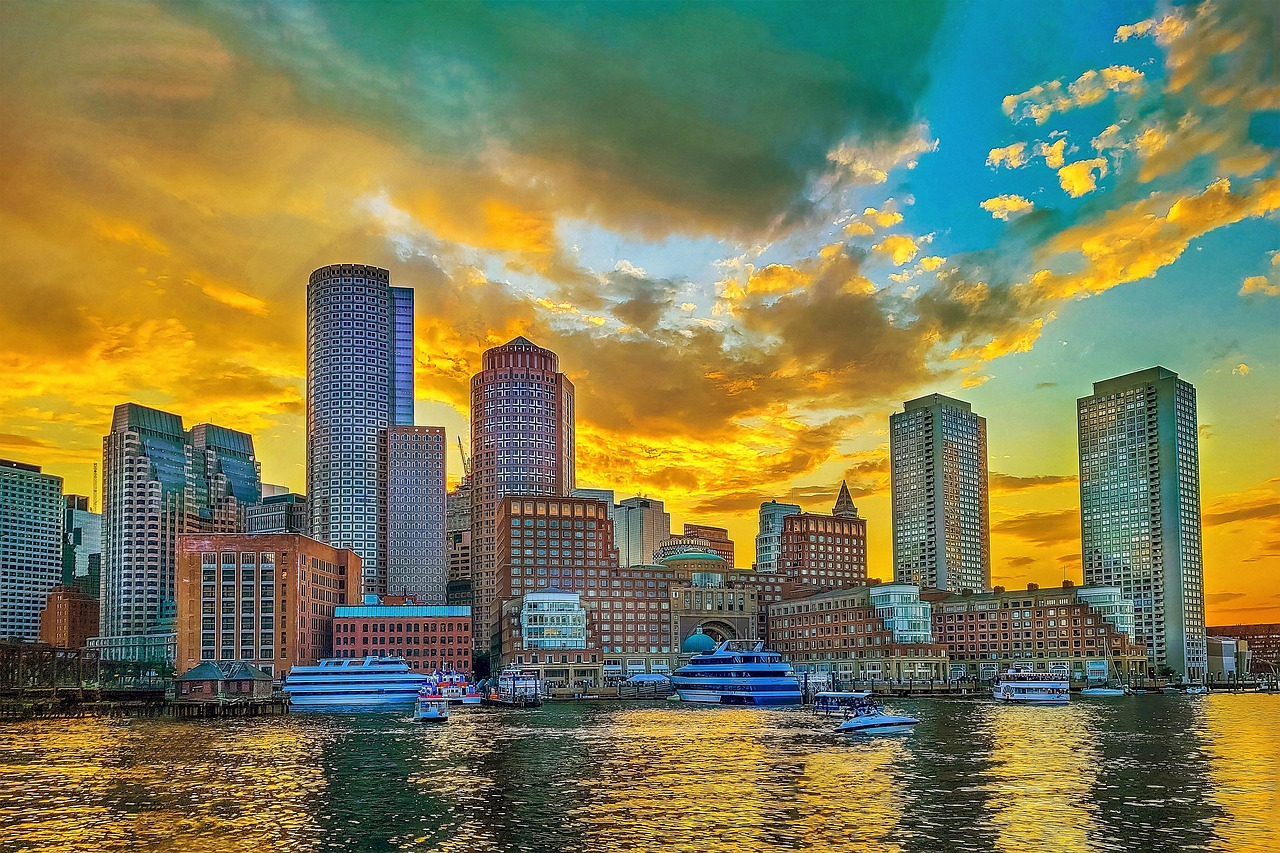
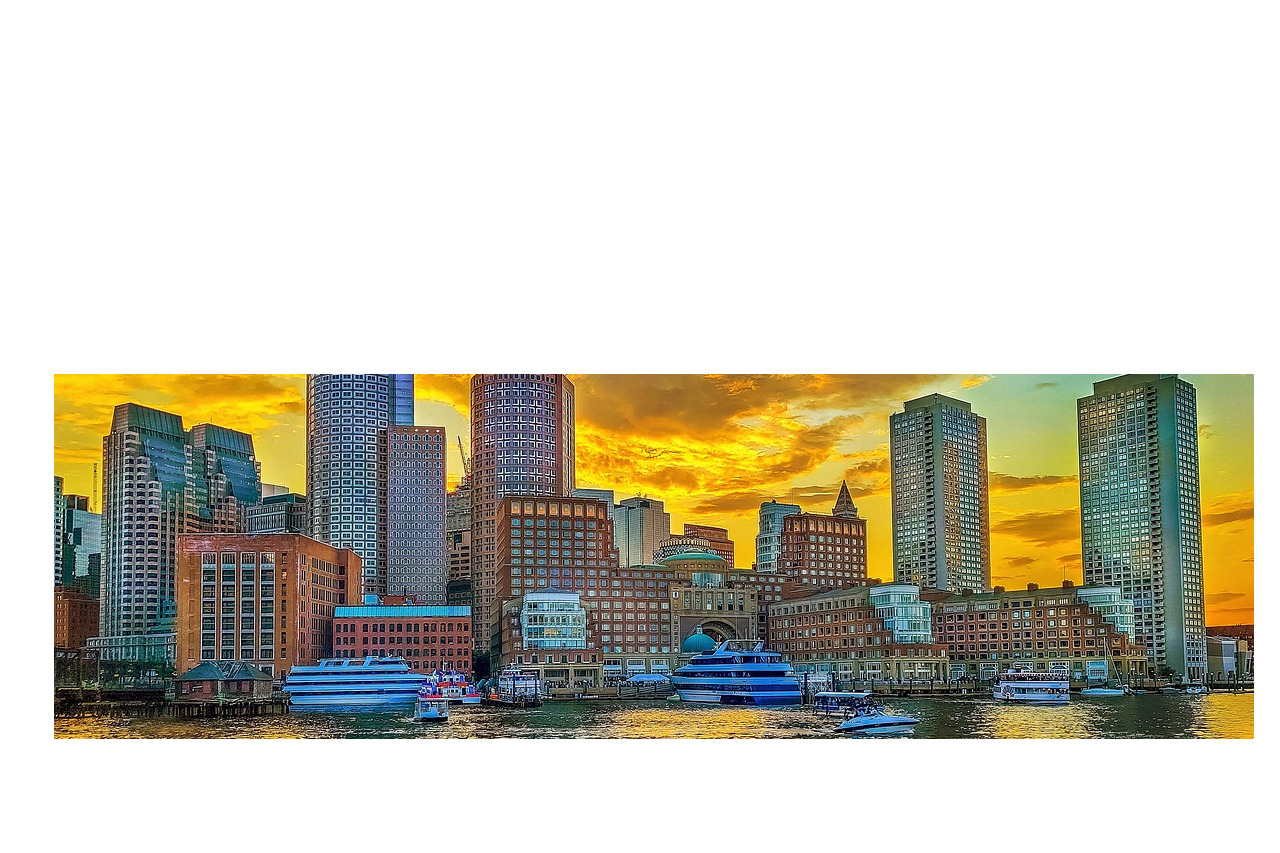
schreibfehler verbessert und Bild zugeschnitten

diff --git a/index.html b/index.html
@@ -64,7 +64,7 @@
         }).addTo(map);
         <!--Koordinate um 100el erweitert, damit der Marker in der Mitte sitzt-->
         var marker = L.marker([42.351, -71.051]).addTo(map);
-        marker.bindPopup("<b>Hallo ich bin Boston!</b><br>Der schönste POrt von Samuesl!").openPopup();
+        marker.bindPopup("<b>Hallo ich bin Boston!</b><br>Der schönste Ort von Samuesl!").openPopup();
 
     </script>
 </body>
